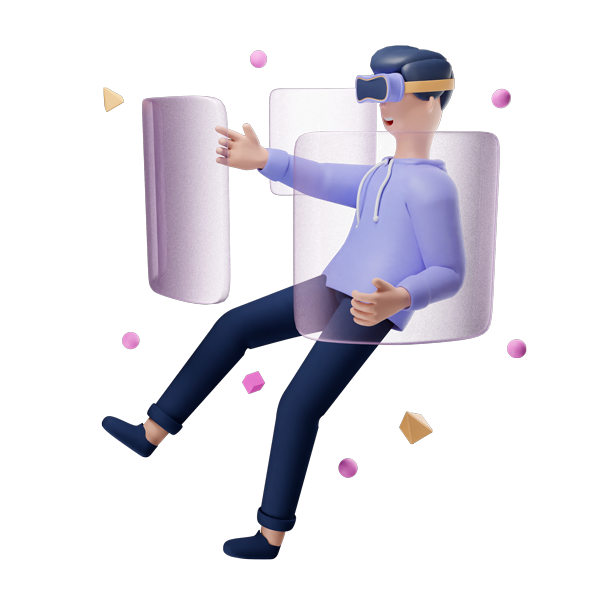
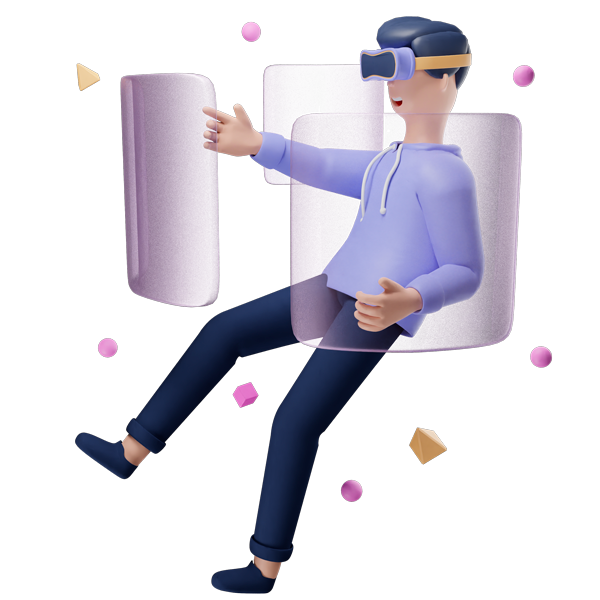
Finalize hero visuals and scrollbar styling

diff --git a/frontend/src/components/Hero.jsx b/frontend/src/components/Hero.jsx
@@ -4,6 +4,8 @@ import { Button } from './ui/button';
 import { mockData } from '../data/mock';
 import heartIcon from '../assets/corazon_cool.png';
 import experienceIcon from '../assets/experience.png';
+import planetIcon from '../assets/planeta.png';
+import targetIcon from '../assets/target.png';
 
 const Hero = () => {
   const { hero } = mockData;
@@ -92,7 +94,7 @@ const Hero = () => {
               {hero.title}
             </h1>
 
-            <p className="text-xl md:text-2xl text-white/90 font-black max-w-2xl">
+            <p className="text-xl md:text-2xl text-white/90 font-bold max-w-2xl">
               {hero.subtitle}
             </p>
 
@@ -133,7 +135,11 @@ const Hero = () => {
                 return (
                   <div key={index} className="flex flex-col items-center justify-center text-center">
                     <div className="mb-3 flex items-center justify-center text-white/80">
-                      {index === 2 ? (
+                      {index === 0 ? (
+                        <img src={targetIcon} alt="" className="h-24 w-24 object-contain" />
+                      ) : index === 1 ? (
+                        <img src={planetIcon} alt="" className="h-24 w-24 object-contain" />
+                      ) : index === 2 ? (
                         <img src={experienceIcon} alt="" className="h-24 w-24 object-contain" />
                       ) : index === 3 ? (
                         <img src={heartIcon} alt="" className="h-24 w-24 object-contain" />

diff --git a/frontend/src/App.css b/frontend/src/App.css
@@ -98,12 +98,12 @@ html {
 }
 
 ::-webkit-scrollbar-thumb {
-  background: #f97316;
+  background: #000000;
   border-radius: 5px;
 }
 
 ::-webkit-scrollbar-thumb:hover {
-  background: #ea580c;
+  background: #000000;
 }
 
 /* Selection Color */
